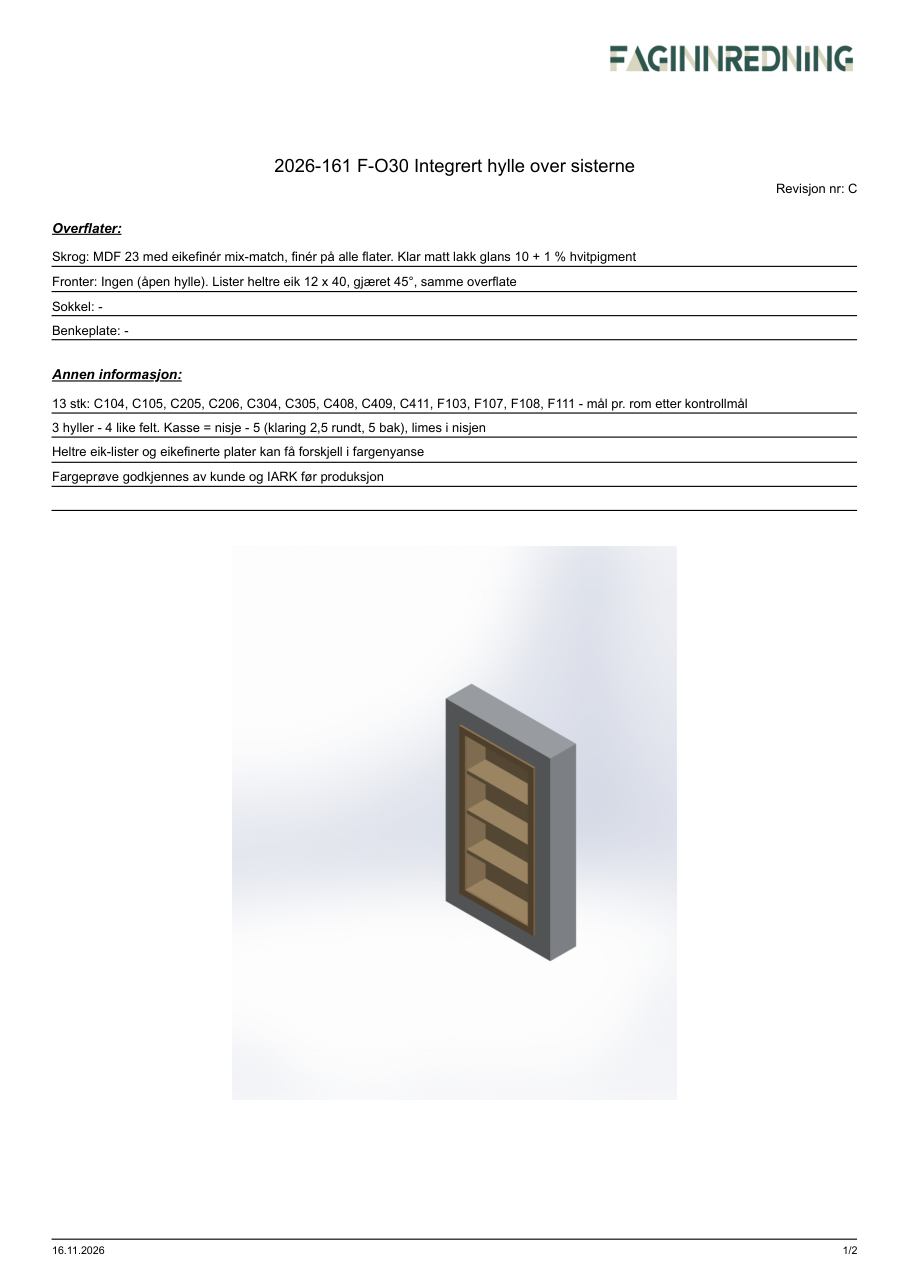
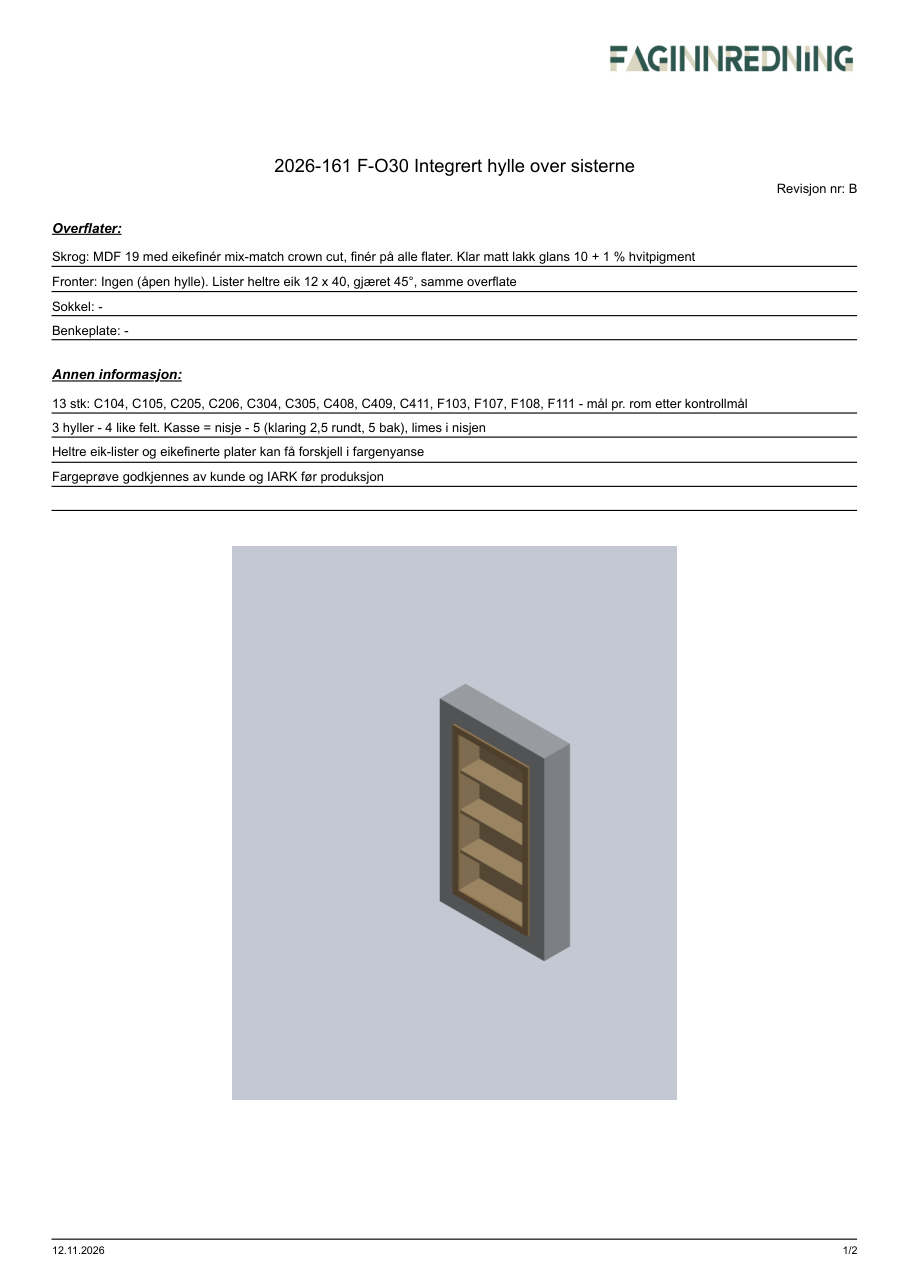
2026-161 F-O30: tilbake til godkjent REV B (MDF 19) - baderomshyllene beholdes i 19 mm (Marius 17.11)

Changed region(s): [[0.2464, 0.404, 0.7701, 0.8702], [0.308, 0.1865, 0.7393, 0.2176], [0.8625, 0.1243, 0.9241, 0.1554]]

diff --git a/2026-161-F-O30-Integrert-hylle-over-sisterne/index.html b/2026-161-F-O30-Integrert-hylle-over-sisterne/index.html
@@ -222,7 +222,7 @@
   /* Ny versjon? GitHub Pages lar nettleseren gjenbruke siden i 10 min. Sjekk versjon.txt
      uten mellomlagring og last siden paa nytt (en gang) hvis den er utdatert. */
   (function () {
-    const SIDE_VERSJON = '20261116133217';
+    const SIDE_VERSJON = '20261112110949';
     fetch('versjon.txt', { cache: 'no-store' }).then(r => r.text()).then(v => {
       v = v.trim();
       let sist = null;
@@ -250,7 +250,7 @@
 
     <model-viewer
       id="mv"
-      src="modell.glb?v=20261116133217"
+      src="modell.glb?v=20261112110949"
       alt="3D-modell av integrert hylle i eikefinér over sisterne, i flislagt nisje"
       camera-controls
       touch-action="none"
@@ -317,7 +317,7 @@
       <h2>Materialer</h2>
       <dl>
         <dt>Kasse og hyller</dt>
-        <dd>MDF 23&nbsp;mm eikefin&eacute;r mix-match, fin&eacute;r p&aring; alle flater</dd>
+        <dd>MDF 19&nbsp;mm eikefin&eacute;r mix-match crown cut, fin&eacute;r p&aring; alle flater</dd>
         <dt>Lister</dt>
         <dd>Heltre eik 12 &times; 40&nbsp;mm, gj&aelig;ret 45&deg;</dd>
         <dt>Vedretning</dt>
@@ -330,7 +330,7 @@
     <section class="blokk">
       <h2>Status</h2>
       <p class="merknad">
-        Tegning REV&nbsp;C &ndash; konseptet til godkjenning. Endelige m&aring;l pr. rom bes&oslash;rges av Faginnredning etter kontrollm&aring;l. Gr&aring; vegg/flis er kun illustrasjon. Eik-teksturen viser vedretningen &ndash; farge og struktur kan avvike fra fargepr&oslash;ven.
+        Tegning REV&nbsp;B &ndash; konseptet til godkjenning. Endelige m&aring;l pr. rom bes&oslash;rges av Faginnredning etter kontrollm&aring;l. Gr&aring; vegg/flis er kun illustrasjon. Eik-teksturen viser vedretningen &ndash; farge og struktur kan avvike fra fargepr&oslash;ven.
       </p>
     </section>
   </aside>
@@ -343,36 +343,36 @@
   <div class="teg-hode">
     <div>
       <h2>Tegninger</h2>
-      <p>REV&nbsp;C &middot; 16.11.2026 &middot; Ordreinfo, pakkliste og produksjonstegning. Trykk p&aring; en side for full st&oslash;rrelse.</p>
+      <p>REV&nbsp;B &middot; 12.11.2026 &middot; Ordreinfo, pakkliste og produksjonstegning. Trykk p&aring; en side for full st&oslash;rrelse.</p>
     </div>
-    <a class="lastned" href="2026-161-F-O30-Integrert-hylle-over-sisterne-REV-C.pdf?v=20261116133217" download>Last ned PDF</a>
+    <a class="lastned" href="2026-161-F-O30-Integrert-hylle-over-sisterne-REV-B.pdf?v=20261112110949" download>Last ned PDF</a>
   </div>
     <figure class="side">
-      <a href="sider/side-01.png?v=20261116133217" target="_blank" rel="noopener"><img src="sider/side-01.png?v=20261116133217" width="909" height="1287" loading="lazy" alt="Tegning side 1 av 7"></a>
+      <a href="sider/side-01.png?v=20261112110949" target="_blank" rel="noopener"><img src="sider/side-01.png?v=20261112110949" width="909" height="1287" loading="lazy" alt="Tegning side 1 av 7"></a>
       <figcaption>Side 1 av 7</figcaption>
     </figure>
     <figure class="side">
-      <a href="sider/side-02.png?v=20261116133217" target="_blank" rel="noopener"><img src="sider/side-02.png?v=20261116133217" width="909" height="1287" loading="lazy" alt="Tegning side 2 av 7"></a>
+      <a href="sider/side-02.png?v=20261112110949" target="_blank" rel="noopener"><img src="sider/side-02.png?v=20261112110949" width="909" height="1287" loading="lazy" alt="Tegning side 2 av 7"></a>
       <figcaption>Side 2 av 7</figcaption>
     </figure>
     <figure class="side">
-      <a href="sider/side-03.png?v=20261116133217" target="_blank" rel="noopener"><img src="sider/side-03.png?v=20261116133217" width="909" height="1287" loading="lazy" alt="Tegning side 3 av 7"></a>
+      <a href="sider/side-03.png?v=20261112110949" target="_blank" rel="noopener"><img src="sider/side-03.png?v=20261112110949" width="909" height="1287" loading="lazy" alt="Tegning side 3 av 7"></a>
       <figcaption>Side 3 av 7</figcaption>
     </figure>
     <figure class="side liggende">
-      <a href="sider/side-04.png?v=20261116133217" target="_blank" rel="noopener"><img src="sider/side-04.png?v=20261116133217" width="1819" height="1287" loading="lazy" alt="Tegning side 4 av 7"></a>
+      <a href="sider/side-04.png?v=20261112110949" target="_blank" rel="noopener"><img src="sider/side-04.png?v=20261112110949" width="1819" height="1287" loading="lazy" alt="Tegning side 4 av 7"></a>
       <figcaption>Side 4 av 7</figcaption>
     </figure>
     <figure class="side liggende">
-      <a href="sider/side-05.png?v=20261116133217" target="_blank" rel="noopener"><img src="sider/side-05.png?v=20261116133217" width="1819" height="1287" loading="lazy" alt="Tegning side 5 av 7"></a>
+      <a href="sider/side-05.png?v=20261112110949" target="_blank" rel="noopener"><img src="sider/side-05.png?v=20261112110949" width="1819" height="1287" loading="lazy" alt="Tegning side 5 av 7"></a>
       <figcaption>Side 5 av 7</figcaption>
     </figure>
     <figure class="side liggende">
-      <a href="sider/side-06.png?v=20261116133217" target="_blank" rel="noopener"><img src="sider/side-06.png?v=20261116133217" width="1819" height="1287" loading="lazy" alt="Tegning side 6 av 7"></a>
+      <a href="sider/side-06.png?v=20261112110949" target="_blank" rel="noopener"><img src="sider/side-06.png?v=20261112110949" width="1819" height="1287" loading="lazy" alt="Tegning side 6 av 7"></a>
       <figcaption>Side 6 av 7</figcaption>
     </figure>
     <figure class="side liggende">
-      <a href="sider/side-07.png?v=20261116133217" target="_blank" rel="noopener"><img src="sider/side-07.png?v=20261116133217" width="1819" height="1287" loading="lazy" alt="Tegning side 7 av 7"></a>
+      <a href="sider/side-07.png?v=20261112110949" target="_blank" rel="noopener"><img src="sider/side-07.png?v=20261112110949" width="1819" height="1287" loading="lazy" alt="Tegning side 7 av 7"></a>
       <figcaption>Side 7 av 7</figcaption>
     </figure>
 </section>
@@ -573,7 +573,7 @@
 
   let snapp = null;
   const CELLE = 250;
-  fetch('snap.json?v=20261116133217').then(r => r.json()).then(d => {
+  fetch('snap.json?v=20261112110949').then(r => r.json()).then(d => {
     const pkt = Int32Array.from(d.punkter);
     const rutenett = new Map();
     for (let i = 0; i < pkt.length; i += 3) {
